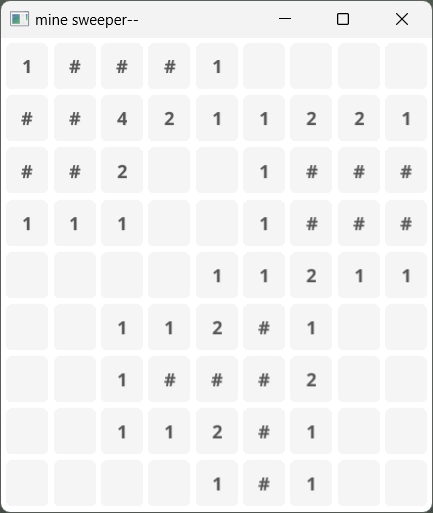
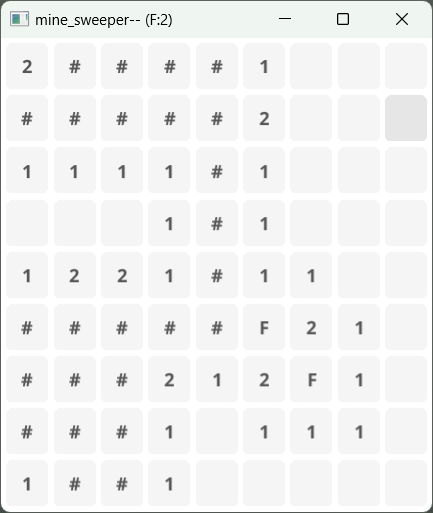
Add "Flag" function to right click.

diff --git a/main.go b/main.go
@@ -1,6 +1,7 @@
 package main
 
 import (
+	"fmt"
 	"os"
 
 	"fyne.io/fyne/v2"
@@ -10,60 +11,102 @@ import (
 	"fyne.io/fyne/v2/widget"
 )
 
-func RefreshGameBoard(gb GameBoard, button_mat [][]*widget.Button) {
+type BombPanelButton struct {
+	widget.Button
+	gb         *GameBoard
+	button_mat [][]*BombPanelButton
+	window     fyne.Window
+	row        int
+	col        int
+}
+
+func newBombPanelButton(row int, col int, gb *GameBoard, w fyne.Window) *BombPanelButton {
+	base := new(BombPanelButton)
+	base.ExtendBaseWidget(base)
+	base.gb = gb
+	//GameBoard index is 1 origin
+	base.row = row + 1
+	base.col = col + 1
+	base.window = w
+	base.SetText(" # ")
+
+	return base
+}
+
+func (b *BombPanelButton) Tapped(e *fyne.PointEvent) {
+	open_result := b.gb.Open(b.row, b.col)
+	if open_result == safe {
+		b.gb.CascadeOpen()
+	} else {
+		b.gb.BombOpen()
+		dialog.ShowConfirm("", "Game Over!", ExitAnyway, b.window)
+	}
+	RefreshGameBoard(b)
+	if b.gb.IsFinished() {
+		dialog.ShowConfirm("", "You Win!", ExitAnyway, b.window)
+	}
+}
+
+func (b *BombPanelButton) TappedSecondary(e *fyne.PointEvent) {
+	b.gb.Flag(b.row, b.col)
+	RefreshGameBoard(b)
+}
+
+func RefreshGameBoard(b *BombPanelButton) {
+	gb := b.gb
+	button_mat := b.button_mat
 	field := gb.Field
 	num_row := gb.SizeY
 	num_col := gb.SizeX
+	flag_counter := 0
 	for row := 1; row <= num_row; row++ {
 		for col := 1; col <= num_col; col++ {
 			panel := field[row][col]
+			if panel.IsFlagged() {
+				flag_counter++
+			}
 			button := button_mat[row-1][col-1]
-			Text := panel.ToString()
-			button.SetText(Text)
+			text := panel.ToString()
+			button.SetText(text)
 		}
 	}
+	window_title := "mine_sweeper--"
+	if flag_counter > 0 {
+		window_title = fmt.Sprintf("mine_sweeper-- (F:%d)", flag_counter)
+	}
+	b.window.SetTitle(window_title)
 }
 
 func ExitAnyway(ok bool) {
 	os.Exit(0)
 }
 
-func ButtonOpen(gb GameBoard, button_mat [][]*widget.Button, row int, col int, w fyne.Window) {
-	open_result := gb.Open(row, col)
-	if open_result == safe {
-		gb.CascadeOpen()
-	} else {
-		gb.BombOpen()
-		dialog.ShowConfirm("", "Game Over!", ExitAnyway, w)
-	}
-	RefreshGameBoard(gb, button_mat)
-	if gb.IsFinished() {
-		dialog.ShowConfirm("", "You Win!", ExitAnyway, w)
-	}
-}
-
 func main() {
 	a := app.New()
 	w := a.NewWindow("mine sweeper--")
 
-	nrow := 9
-	ncol := 9
+	num_row := 9
+	num_col := 9
 	num_bomb := 10
-	gb := NewGameBoard(nrow, ncol, num_bomb)
+	gb := NewGameBoard(num_row, num_col, num_bomb)
 
-	grid := container.NewGridWithColumns(ncol)
+	grid := container.NewGridWithColumns(num_col)
 
-	var button_mat [][]*widget.Button
+	var button_mat [][]*BombPanelButton
 
-	for row := 0; row < nrow; row++ {
-		var button_row []*widget.Button
-		for col := 0; col < ncol; col++ {
-			button := widget.NewButton(" # ", nil)
-			button.OnTapped = func() { ButtonOpen(gb, button_mat, row+1, col+1, w) }
+	for row := 0; row < num_row; row++ {
+		var button_row []*BombPanelButton
+		for col := 0; col < num_col; col++ {
+			button := newBombPanelButton(row, col, &gb, w)
 			grid.Add(button)
 			button_row = append(button_row, button)
 		}
 		button_mat = append(button_mat, button_row)
+	}
+	for row := 0; row < num_row; row++ {
+		for col := 0; col < num_col; col++ {
+			button_mat[row][col].button_mat = button_mat
+		}
 	}
 	w.SetContent(grid)
 	w.ShowAndRun()

diff --git a/README.md b/README.md
@@ -1,6 +1,6 @@
 # mine_sweeper_go
 
-![alt text](image.png)
+![GUI image](image.png)
 
 ## About this code
 
@@ -18,6 +18,6 @@ go build .
 
 ## ToDo
 
-- [ ] Right click flag function
+- [x] Right click flag function
 - [ ] Fix Game Over dialog
 - [ ] Prevent sudden death
